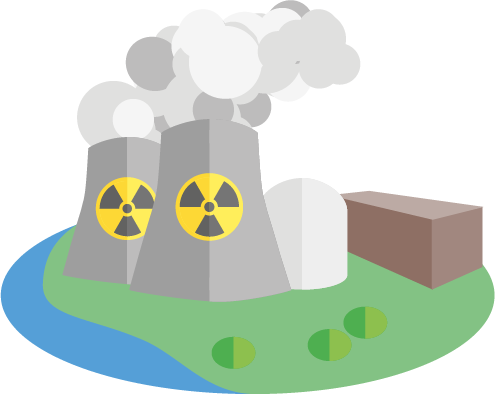
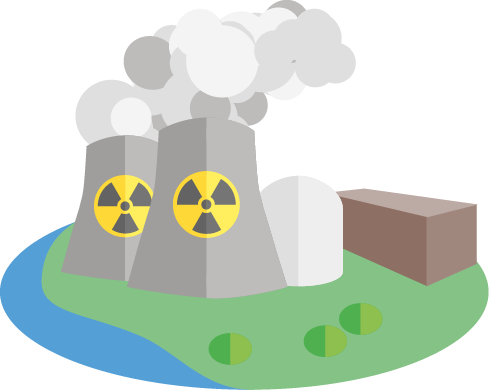
Update das imagens; Adicionada função ao apertar enter ao inserir o nome;

diff --git a/objeto 1/objeto1.html b/objeto 1/objeto1.html
@@ -22,7 +22,6 @@
 
 <body>
 
-
 <nav class="navbar navbar-default navbar-fixed-top">
 	<div class="container-fluid">
     <div class="navbar-header">
@@ -39,21 +38,20 @@
 </nav>
 
 
-
 <div id="geral" class="container-fluid">
 	<div id="scene0">
 		<div class="row" id="rowInputName">
 			<div class="col-md-4"></div>
 			<div class="col-md-4">
-				<input type="text" class="form-control" id="inputNome" maxlength="55" placeholder="Insira o seu nome"> </input>
+				<input type="text" class="form-control" id="inputNome" maxlength="55" onkeypress="pressedEnter(event)" placeholder="Insira o seu nome"> </input>
 				<div class="row">
 					<div class="col-md-12">
-						<center>
+						<center> 
 							<button type="button" id= "botaoNome" oncLick="saveName()" class="btn btn-primary btn-block">Confirmar</button>
 						</center>
 					</div>
 				</div>
-
+		
 				<div class="row">
 					<div class="col-md-12">
 						<div id="alertNome" class="alert alert-danger" role="alert">
@@ -61,20 +59,20 @@
 						</div>
 					</div>
 				</div>
-
-
+		
+		
 			</div>
-
+	  
 
 		</div>
-
+		
 		<div class="imagemPlaneta">
 				<img id="imagemPlanetaScene0" src="assets/img/planeta.png">
 		</div>
 	</div>
+	
 
-
-		<div id="imagensFixas">
+		<div id="imagensFixas"> 
 			<div id="imagemHelp" >
 				<img title= "Ajuda" class="imagemFixaHelp" src="assets/img/ajuda.png">
 			</div>
@@ -84,42 +82,42 @@
 				</a>
 			</div>
 			<div id="imagemSetaEsquerda" >
-				<img title="Voltar" class="imagemFixaSetaEsquerda" onclick="previousScene()" src="assets/img/seta_esquerda.png">
+				<img title="Voltar" class="imagemFixaSetaEsquerda" onclick="previousScene()" height="32px" width="50px" src="assets/img/seta_esquerda.png">
 			</div>
 			<div id="imagemSetaDireita">
-				<img title="Avançar" class="imagemFixaSetaDireita"  onClick="nextScene()" src="assets/img/seta_direita.png">
+				<img title="Avançar" class="imagemFixaSetaDireita"  onClick="nextScene()" height="32px" width="50px" src="assets/img/seta_direita.png">
 			</div>
 		</div>
 
+		
+		
+		
+		
 
-
-
-
-
-	<div id="scene1">
+	<div id="scene1"> 
 		<div id="scene1Text1" class="scene1Text1"> <!-- Texto colocado através do javascript --> </div>
 		<div id="scene1Text2" class="scene1Text2"> Para avançar clique na seta no canto inferior direito da tela </div>
 		<div id="scene1Bubble1"> <img class="scene1Bubble1" src="assets/img/bubble1.png"> </div>
 		<div id="scene1Bubble2"> <img class="scene1Bubble2"src="assets/img/bubble2.png"> </div>
 		<div id="imagemEngenheiroScene1" >
 			<img class="imagemEngenheiro"  src="assets/img/engenheiro_esquerda.png">
-		</div>
+		</div>	
 		<div class="imagemPlaneta">
 				<img id="imagemPlanetaScene1" src="assets/img/planeta.png">
 		</div>
 	</div>
-
-
+	
+	
 	<div id="scene2">
 		<div id="imagemEngenheiro2">
 			<img class="imagemEngenheiro"   src="assets/img/engenheiro_esquerda.png">
-		</div>
+		</div>	
 		<div class="imagemPlaneta">
 			<img id="imagemPlaneta2" src="assets/img/planeta.png">
 		</div>
 
-		<div id="additionalScene2">
-			<div id="imagemHidreletricaScene2">
+		<div id="additionalScene2" class="imageAlignBottom">
+			<div >
 				<img onclick="showMoreInfo()" class="imagemHidreletrica" title="Usina Hidrelétrica" src="assets/img/hidreletrica.png">
 			</div>
 			<div id="imagemEolicaScene2">
@@ -137,12 +135,12 @@
 			<div id="imagemBiomassaScene2">
 				<img onclick="showMoreInfo()"  class="imagemBiomassa"  title="Usina de Biomassa" src="assets/img/biomassa.png">
 			</div>
-
+			
 			<div id="scene2Text1" class="scene2Text1"> Interaja com os elementos para conhecer mais sobre os meios de produção de energia elétrica </div>
 			<div id="scene2Bubble1"> <img class="scene2Bubble1" src="assets/img/bubble1.png"> </div>
 
-			<div id="scene2Sub1"> </div>
 		</div>
+					<div id="scene2Sub1" class="scene2Sub1"> <h1> hasiudasd </h1> </div>
 
 
 	</div>

diff --git a/objeto 1/assets/js/custom.js b/objeto 1/assets/js/custom.js
@@ -7,9 +7,15 @@
 		$("#scene1").hide();
 		$("#scene2").hide();
 		$("#imagensFixas").hide();
-		$("usinasScene2").hide();
 
 });
+
+
+	function pressedEnter(event) {
+		if (event.keyCode == 13) {
+			saveName();
+		}
+	}
 
 
 
@@ -68,7 +74,8 @@
 	
 	function showMoreInfo() {
 		$("body").css("background-color", "gray");
-		$("scene2Sub1").show();
+		$('#scene2Sub1').show();
+		
 	}
 	
 
@@ -120,11 +127,11 @@
 				case 2:
 					$("#scene2").show();
 					$('#additionalScene2').hide();
-					$("#scene2Sub1").hide();
 
 					$('.imagemPlaneta').css('right',-30 + '%');; 
 					$('.imagemEngenheiro').css('right',5.85 + '%');; 
 					moveImageScene2();
+					$('#scene2Sub1').hide();
 
 				break;
 			}

diff --git a/objeto 1/assets/css/customObjeto.css b/objeto 1/assets/css/customObjeto.css
@@ -248,3 +248,17 @@ body {
 	height: 9.5vh;
 	z-index: 0;
 }
+
+.scene2Sub1 {
+	position: fixed;
+	top: 25%;
+	bottom: 25%;
+	height: 50%;
+
+	left: 12.5%;
+	right: 12.5%;
+	width: 75%;
+	
+	border-radius: 10%;
+	background-color: #018BB2;
+}
